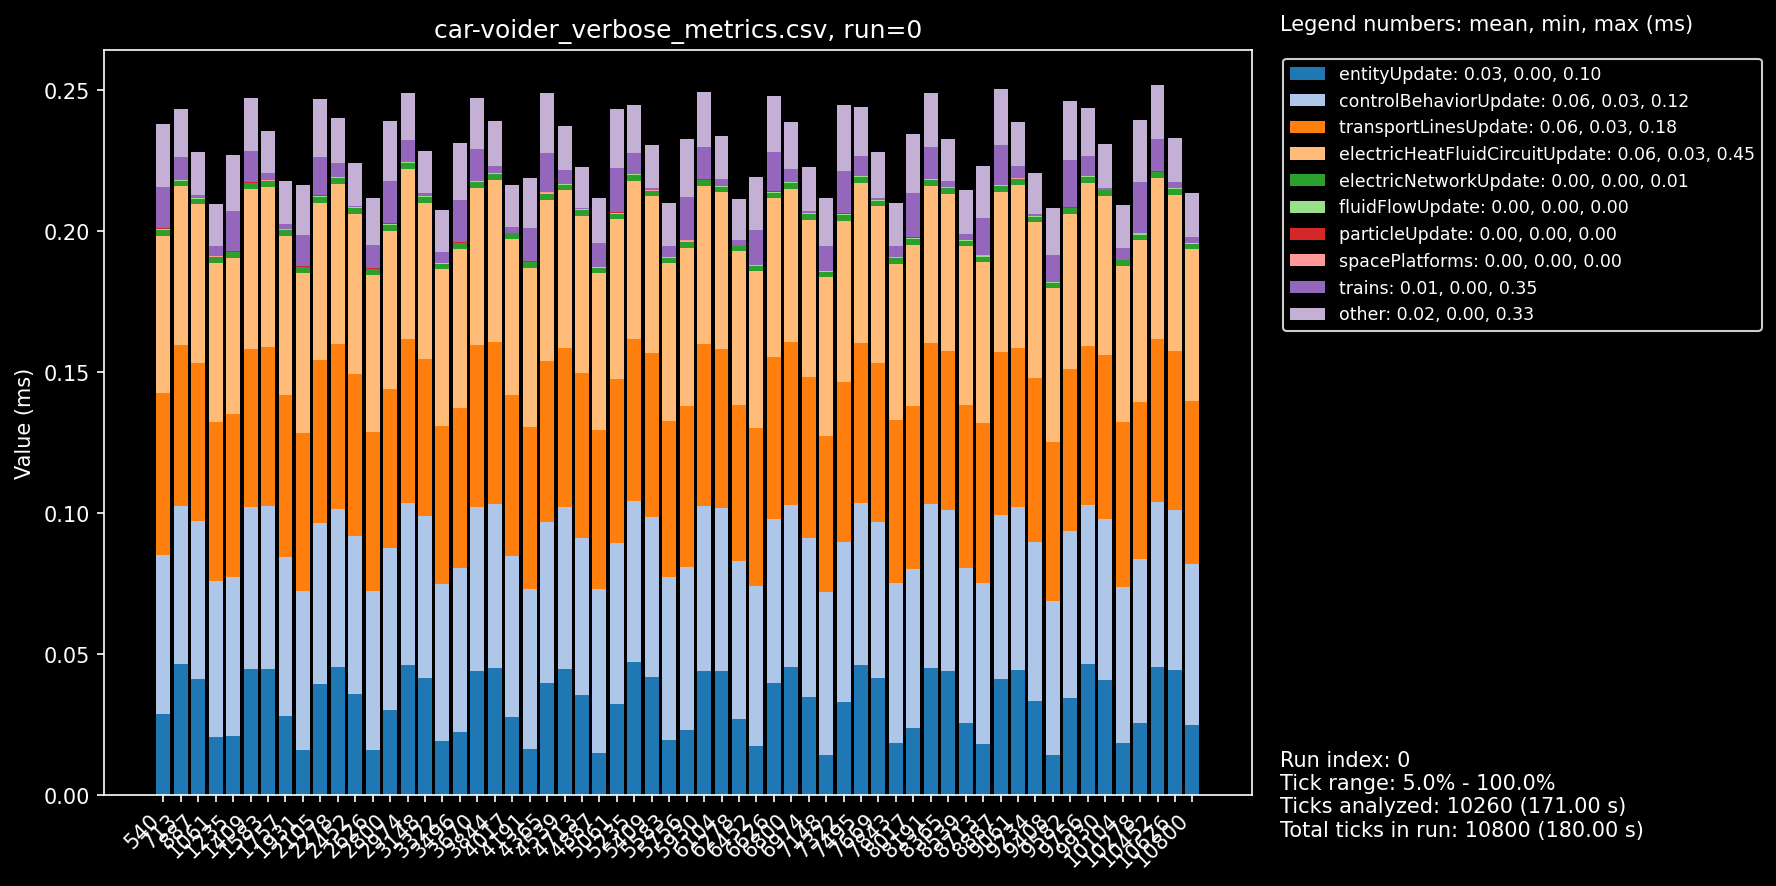
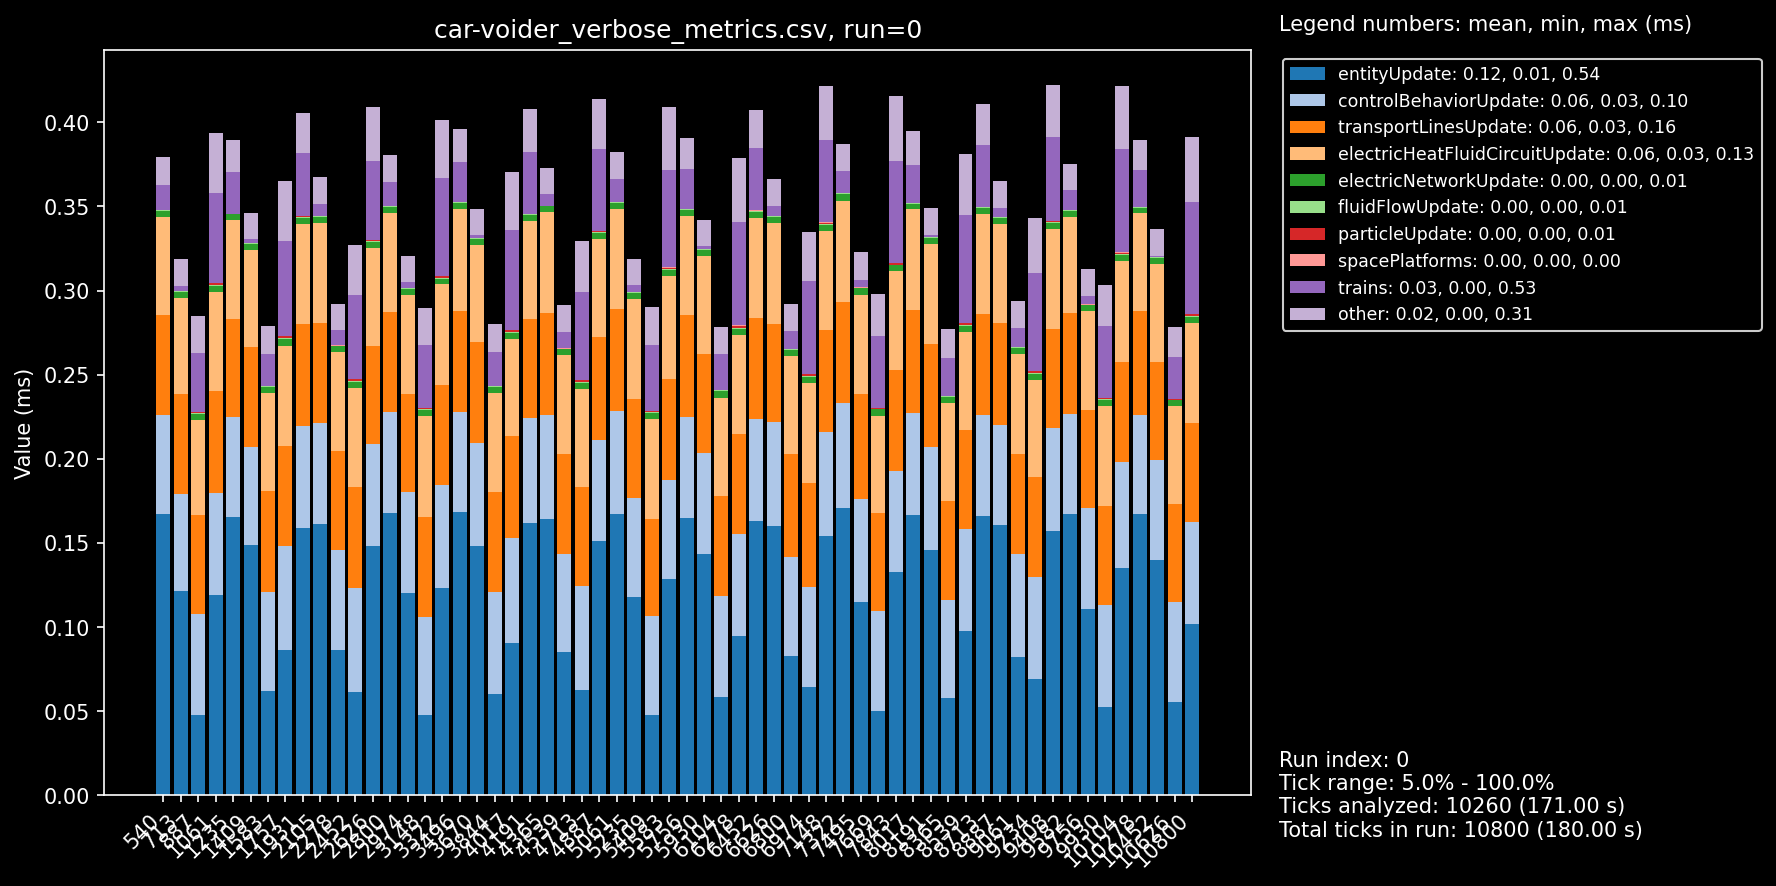
scale tungsten test by 4 to get better results

diff --git a/tungsten-train-upcycler/README.md b/tungsten-train-upcycler/README.md
@@ -1,6 +1,6 @@
 # Vulvanus Tungsten Upcyclers
 
-**Beats silo+recycler based upcycling by 20% when disabling car particles.**
+**Beats silo+recycler based upcycling by >50% when disabling car particles.**
 
 **[blueprint](./train-voider-1.txt)**
 
@@ -18,9 +18,14 @@ comparing to abuc's old ore recyclers tuned to 7k for tungsten.
 
 ![recycler setup vulcanus](./recycler.png)
 
+
 ### Caveats
 - including car production costs but excluding q5 rocketfuel costs (get from fulgora islands) and molten iron
 - excluding space platform costs on recycler setup
+
+NB: tested with 4 copies of the above. could probably have scaled it more to offset the game's minimum game update, but this is not super precise anyway.
+
+the train recycler setup is not completely maxed either. i just took the one scaled for my metallurgic which is fine with like 95% - 98% so you might need to adjust tick timers / belt buffers to maxx it fully.
 
 ### Benchmark Results
 ![ups breakdown](./results.png) + [report](./results.md).

diff --git a/tungsten-train-upcycler/results.md b/tungsten-train-upcycler/results.md
@@ -5,7 +5,7 @@
 **Date:** 2025-10-30
 
 ## Scenario
-* Each save was tested for 10800 tick(s) and 3 run(s)
+* Each save was tested for 10800 tick(s) and 5 run(s)
 
 ## Results
 | Metric            | Description                           |
@@ -17,8 +17,8 @@
 
 | Save | Avg (ms) | Min (ms) | Max (ms) | UPS | Execution Time (ms) | % Difference from base |
 |------|----------|----------|----------|-----|---------------------|------------------------|
-| recyclers | 0.279 | 0.201 | 1.370 | 3579 | 9050 | 0.00% |
-| car-voider-particleson | 0.255 | 0.149 | 0.965 | 3915 | 8274 | 9.38% |
-| car-voider | 0.232 | 0.128 | 1.022 | **4312** | 7512 | 20.48% |
+| recyclers | 0.531 | 0.436 | 2.515 | 1881 | 28702 | 0.00% |
+| car-voider-particleson | 0.425 | 0.214 | 1.919 | 2350 | 22970 | 24.96% |
+| car-voider | 0.352 | 0.161 | 1.680 | **2839** | 19019 | 50.91% |
 
 ## Conclusion
